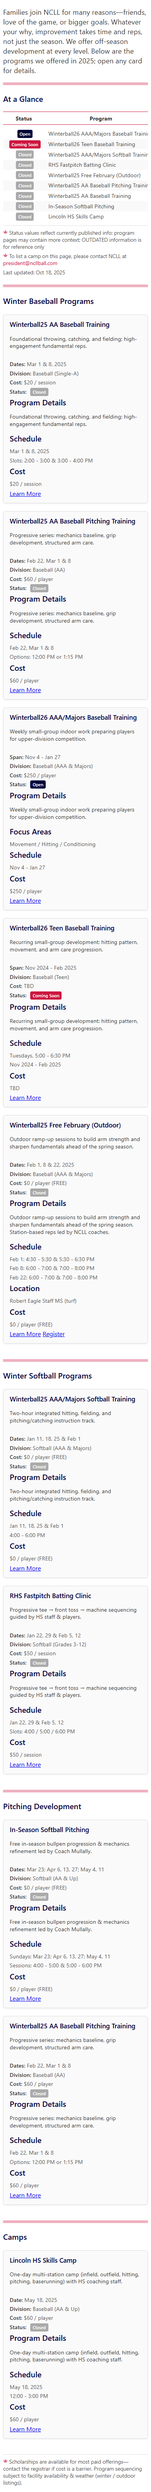
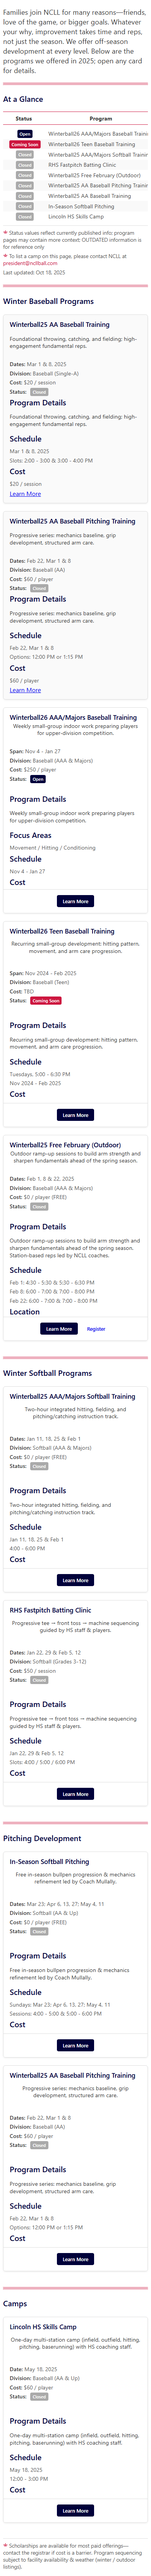
Refactor code structure for improved readability and maintainability

Changed region(s): [[0.0, 0.0, 0.9846, 0.9981], [0.8, 0.2807, 0.8308, 0.3119], [0.6462, 0.7174, 0.6769, 0.7486]]

diff --git a/scripts/image-diff-all.js b/scripts/image-diff-all.js
@@ -1,0 +1,73 @@
+const fs = require('fs');
+const path = require('path');
+const { execSync } = require('child_process');
+const { PNG } = require('pngjs');
+const pixelmatch = require('pixelmatch');
+
+const repoRoot = process.cwd();
+const screenshots = [
+  'screenshots/volunteer-desktop.png',
+  'screenshots/volunteer-mobile.png',
+  'screenshots/baseball-desktop.png',
+  'screenshots/baseball-mobile.png',
+  'screenshots/softball-desktop.png',
+  'screenshots/softball-mobile.png',
+  'screenshots/pd-desktop.png',
+  'screenshots/pd-mobile.png'
+];
+
+const outDir = path.join(repoRoot, 'reports', 'diffs');
+if (!fs.existsSync(outDir)) fs.mkdirSync(outDir, { recursive: true });
+const tmpOld = path.join(repoRoot, 'tmp', 'old-screenshots');
+if (!fs.existsSync(tmpOld)) fs.mkdirSync(tmpOld, { recursive: true });
+
+const results = [];
+
+screenshots.forEach(file => {
+  const name = path.basename(file);
+  // try to get file from HEAD~1
+  let oldBuf = null;
+  try {
+    oldBuf = execSync(`git show HEAD~1:${file}`, { stdio: ['pipe','pipe','ignore'] });
+  } catch (err) {
+    // file may not exist in HEAD~1
+  }
+  if (!oldBuf || oldBuf.length === 0) {
+    console.log(`${name}: no baseline (not present in HEAD~1) — skipping`);
+    results.push({ name, status: 'no-baseline' });
+    return;
+  }
+  const oldPath = path.join(tmpOld, name);
+  fs.writeFileSync(oldPath, oldBuf);
+  const newPath = path.join(repoRoot, file);
+  if (!fs.existsSync(newPath)) {
+    console.log(`${name}: current screenshot missing — skipping`);
+    results.push({ name, status: 'no-current' });
+    return;
+  }
+  const oldPng = PNG.sync.read(fs.readFileSync(oldPath));
+  const newPng = PNG.sync.read(fs.readFileSync(newPath));
+  if (oldPng.width !== newPng.width || oldPng.height !== newPng.height) {
+    console.log(`${name}: dimension mismatch (old ${oldPng.width}x${oldPng.height} vs new ${newPng.width}x${newPng.height}) — skipping`);
+    results.push({ name, status: 'dimension-mismatch' });
+    return;
+  }
+  const { width, height } = oldPng;
+  const diff = new PNG({ width, height });
+  const diffPixels = pixelmatch(oldPng.data, newPng.data, diff.data, width, height, { threshold: 0.08 });
+  const outPath = path.join(outDir, name.replace('.png', '.diff.png'));
+  fs.writeFileSync(outPath, PNG.sync.write(diff));
+  const totalPixels = width * height;
+  const pct = ((diffPixels / totalPixels) * 100).toFixed(4);
+  console.log(`${name}: ${diffPixels} px different (${pct}%); diff saved to ${outPath}`);
+  results.push({ name, status: 'ok', diffPixels, totalPixels, pct, diffPath: outPath });
+});
+
+// summary
+const ok = results.filter(r => r.status === 'ok');
+console.log('\nSummary:');
+ok.forEach(r => console.log(`  ${r.name}: ${r.diffPixels} px (${r.pct}%)`));
+const totalDiff = ok.reduce((s, r) => s + r.diffPixels, 0);
+console.log(`Total diff pixels across compared images: ${totalDiff}`);
+
+process.exit(0);

diff --git a/scripts/list-redundant-overrides.js b/scripts/list-redundant-overrides.js
@@ -1,0 +1,51 @@
+const fs = require('fs');
+const path = require('path');
+const cwd = process.cwd();
+const auditPath = path.join(cwd, 'reports', 'ncll-card-audit.json');
+const cssPath = path.join(cwd, 'css.css');
+if (!fs.existsSync(auditPath)) { console.error('Audit not found:', auditPath); process.exit(1); }
+if (!fs.existsSync(cssPath)) { console.error('css.css not found'); process.exit(1); }
+const audit = JSON.parse(fs.readFileSync(auditPath, 'utf8'));
+const css = fs.readFileSync(cssPath, 'utf8');
+
+function normBody(b) { return b.trim().replace(/\s+/g, ' ').replace(/;\s/g,'; '); }
+// Build canonical bodies from audit (same logic as before)
+const canonical = {};
+Object.keys(audit).forEach(comp => {
+  const entries = audit[comp];
+  if (!entries || !entries.length) return;
+  let chosen = entries.find(e => /baseball-landing/.test(e.selector) && /softball-landing/.test(e.selector) && /pd-landing/.test(e.selector));
+  if (!chosen) chosen = entries[0];
+  canonical[comp] = normBody(chosen.body);
+});
+
+// parse blocks
+const blockRe = /([^{]+)\{([^}]+)\}/g;
+let m;
+const redundant = [];
+while ((m = blockRe.exec(css)) !== null) {
+  const selectors = m[1].trim();
+  const body = m[2].trim();
+  const bodyNorm = normBody(body);
+  const sels = selectors.split(',').map(s => s.trim());
+  for (const sel of sels) {
+    const pm = sel.match(/\.(baseball|softball|pd)-landing\s+\.(ncll-card__[A-Za-z0-9_-]+)(.*)/);
+    if (!pm) continue;
+    const comp = '.' + pm[2];
+    if (canonical[comp] && canonical[comp] === bodyNorm) {
+      redundant.push({ selector: sel, body: body, comp });
+    }
+  }
+}
+
+const outDir = path.join(cwd, 'reports');
+if (!fs.existsSync(outDir)) fs.mkdirSync(outDir);
+const outPath = path.join(outDir, 'redundant-ncll-card-overrides.json');
+fs.writeFileSync(outPath, JSON.stringify(redundant, null, 2), 'utf8');
+console.log('Wrote', outPath);
+console.log('\nFound', redundant.length, 'redundant page-prefixed overrides:');
+redundant.forEach((r,i)=> {
+  console.log(`${i+1}. ${r.selector}`);
+});
+
+process.exit(0);

diff --git a/Player Development/index.html b/Player Development/index.html
@@ -101,12 +101,9 @@
                     </tbody>
                 </table>
             </div>
-            <noscript>
-                <p><strong>Programs (JS disabled):</strong> Single-A Winter; AA Pitching (3 wk); AAA+Majors Winter; Teen
-                    Training; AAA+Majors Softball; RHS Batting Clinic; Winterball25 Free February; In-Season SB
-                    Pitching; Lincoln HS
-                    Camp.</p>
-            </noscript>
+
+
+        </section>
             <section class="footies" aria-labelledby="foot-status-note">
                 <p id="foot-status-note"><span class="info-icon" aria-hidden="true"><svg viewBox="0 0 10 10"
                             aria-hidden="true" focusable="false">
@@ -124,8 +121,7 @@
                         href="mailto:president&#64;ncllball&#46;com">president&#64;ncllball&#46;com</a></p>
                 <p id="foot-last-updated">Last updated: Oct 18, 2025</p>
             </section>
-        </section>
-
+            
         <section id="winter-baseball" aria-labelledby="winter-baseball-h2">
             <h2 class="left" id="winter-baseball-h2">Winter Baseball Programs</h2>
             <div class="program-grid">
